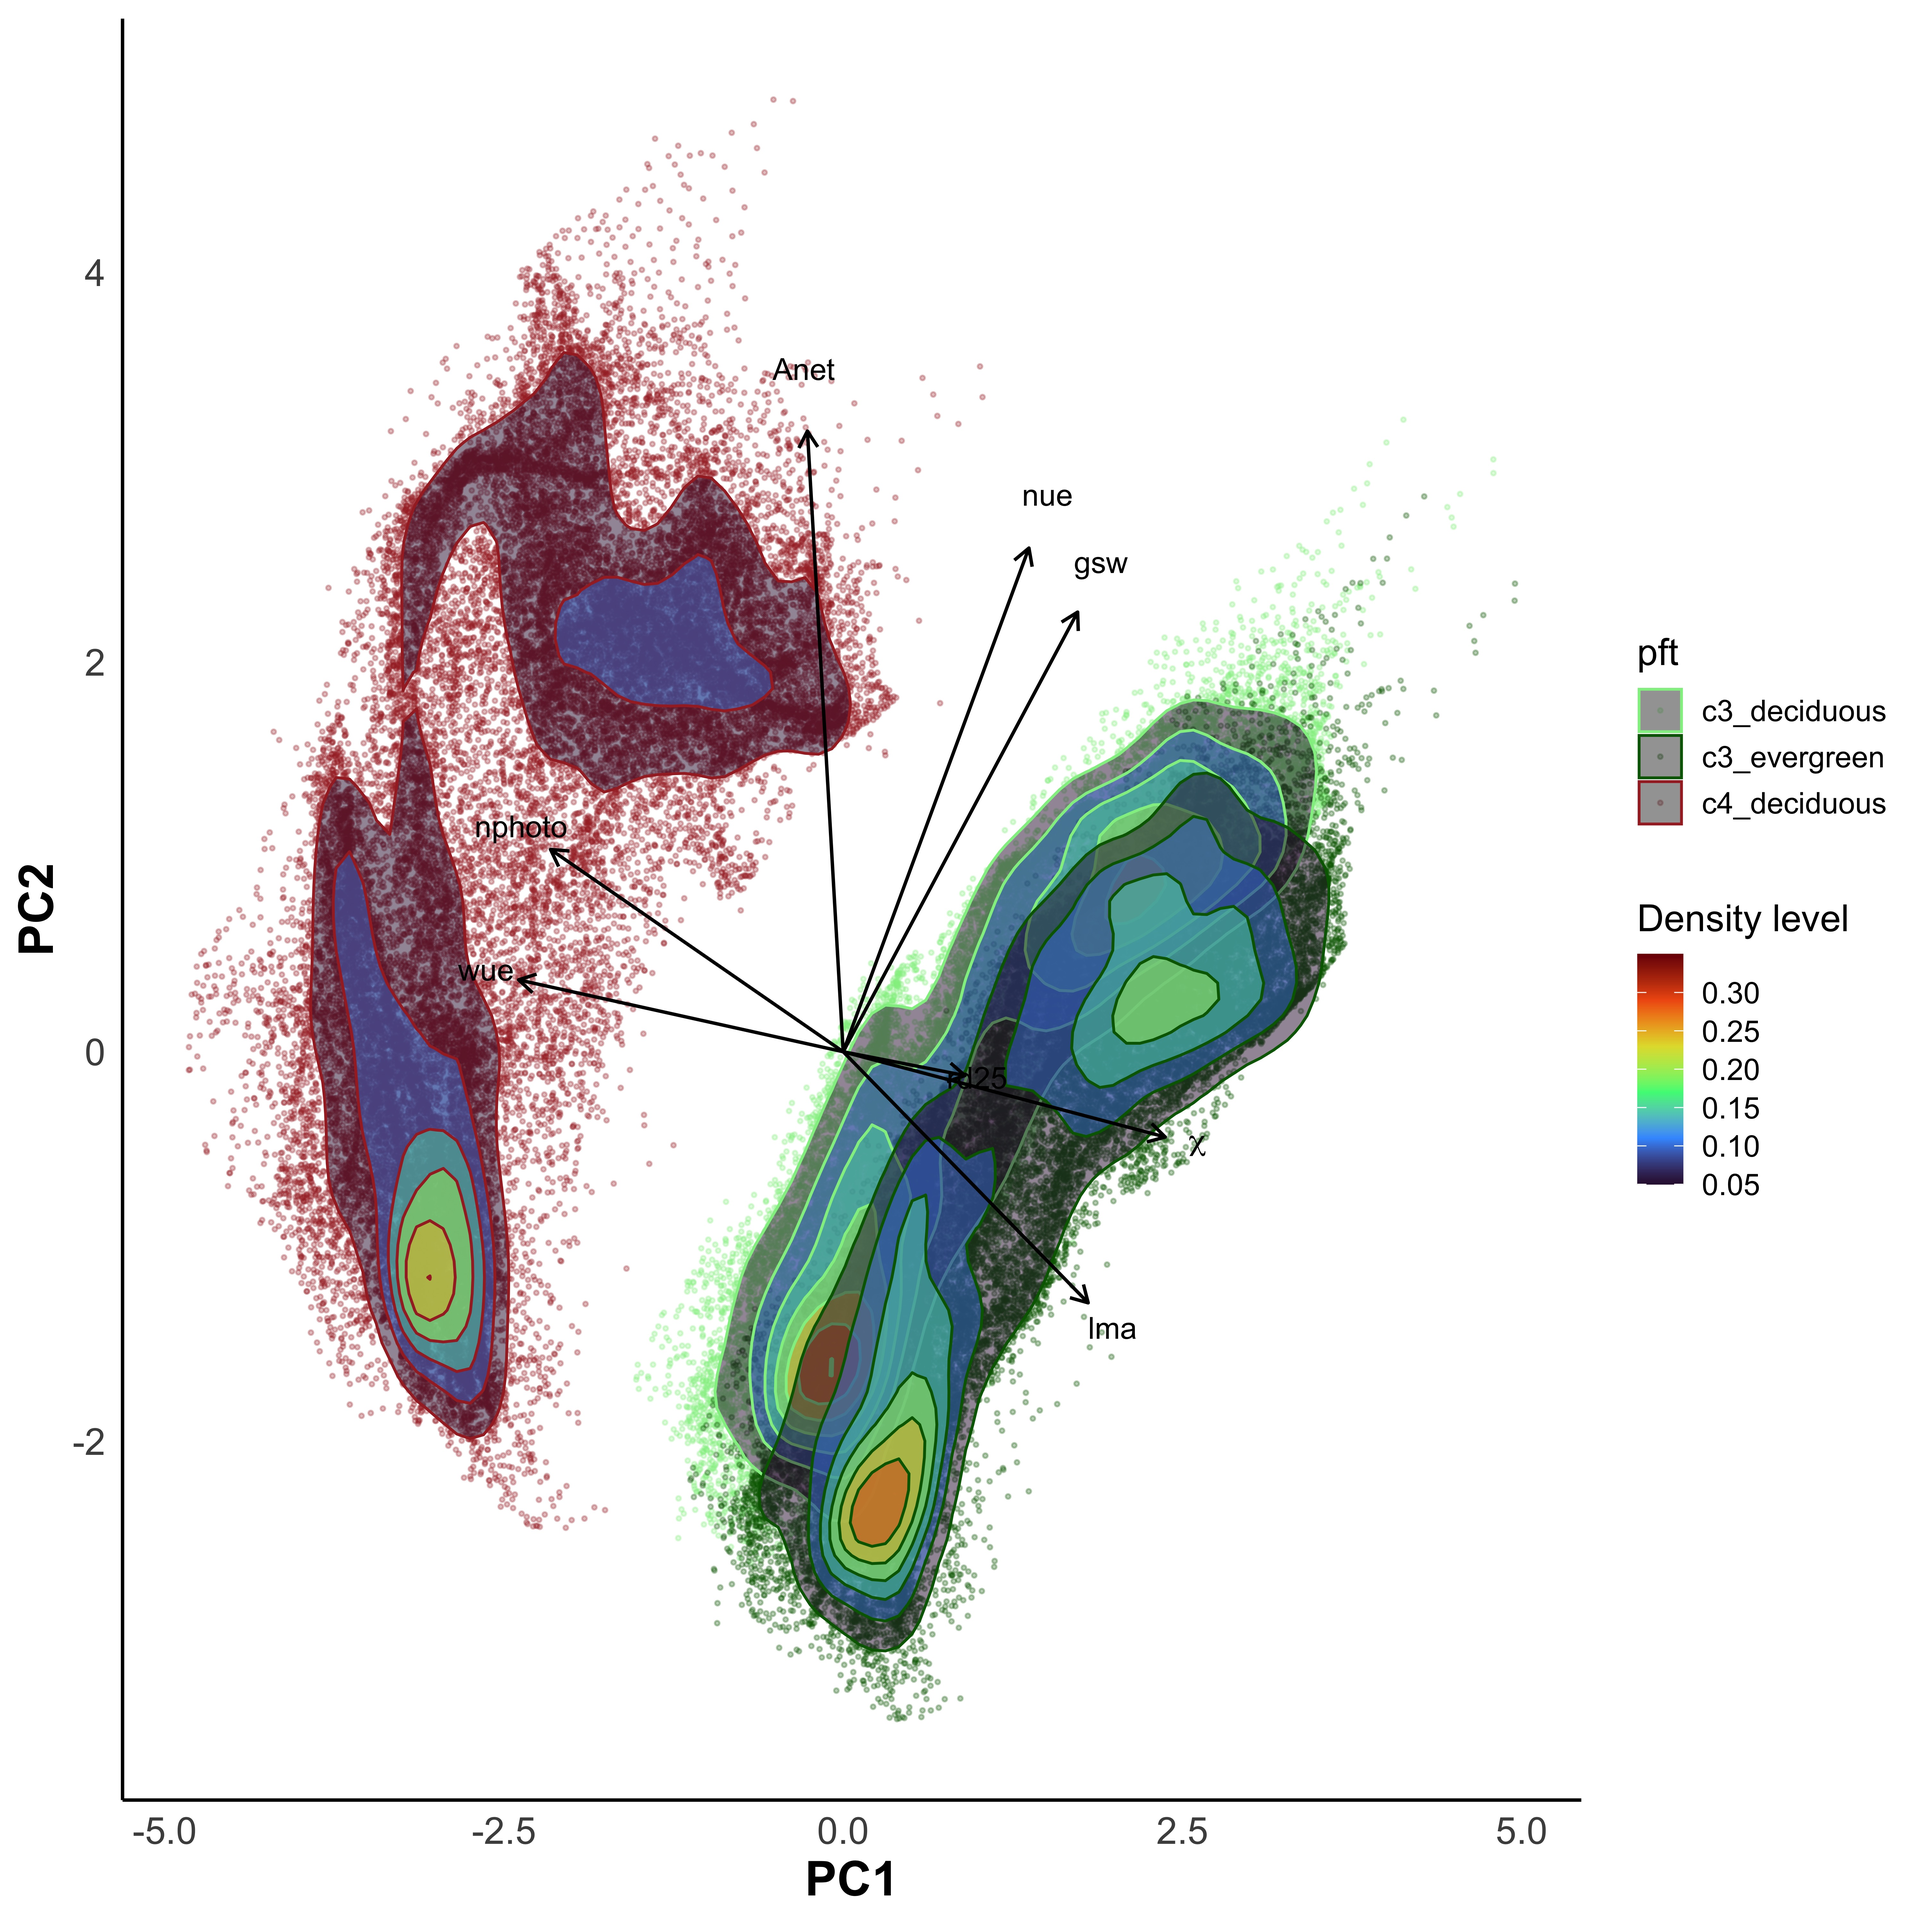
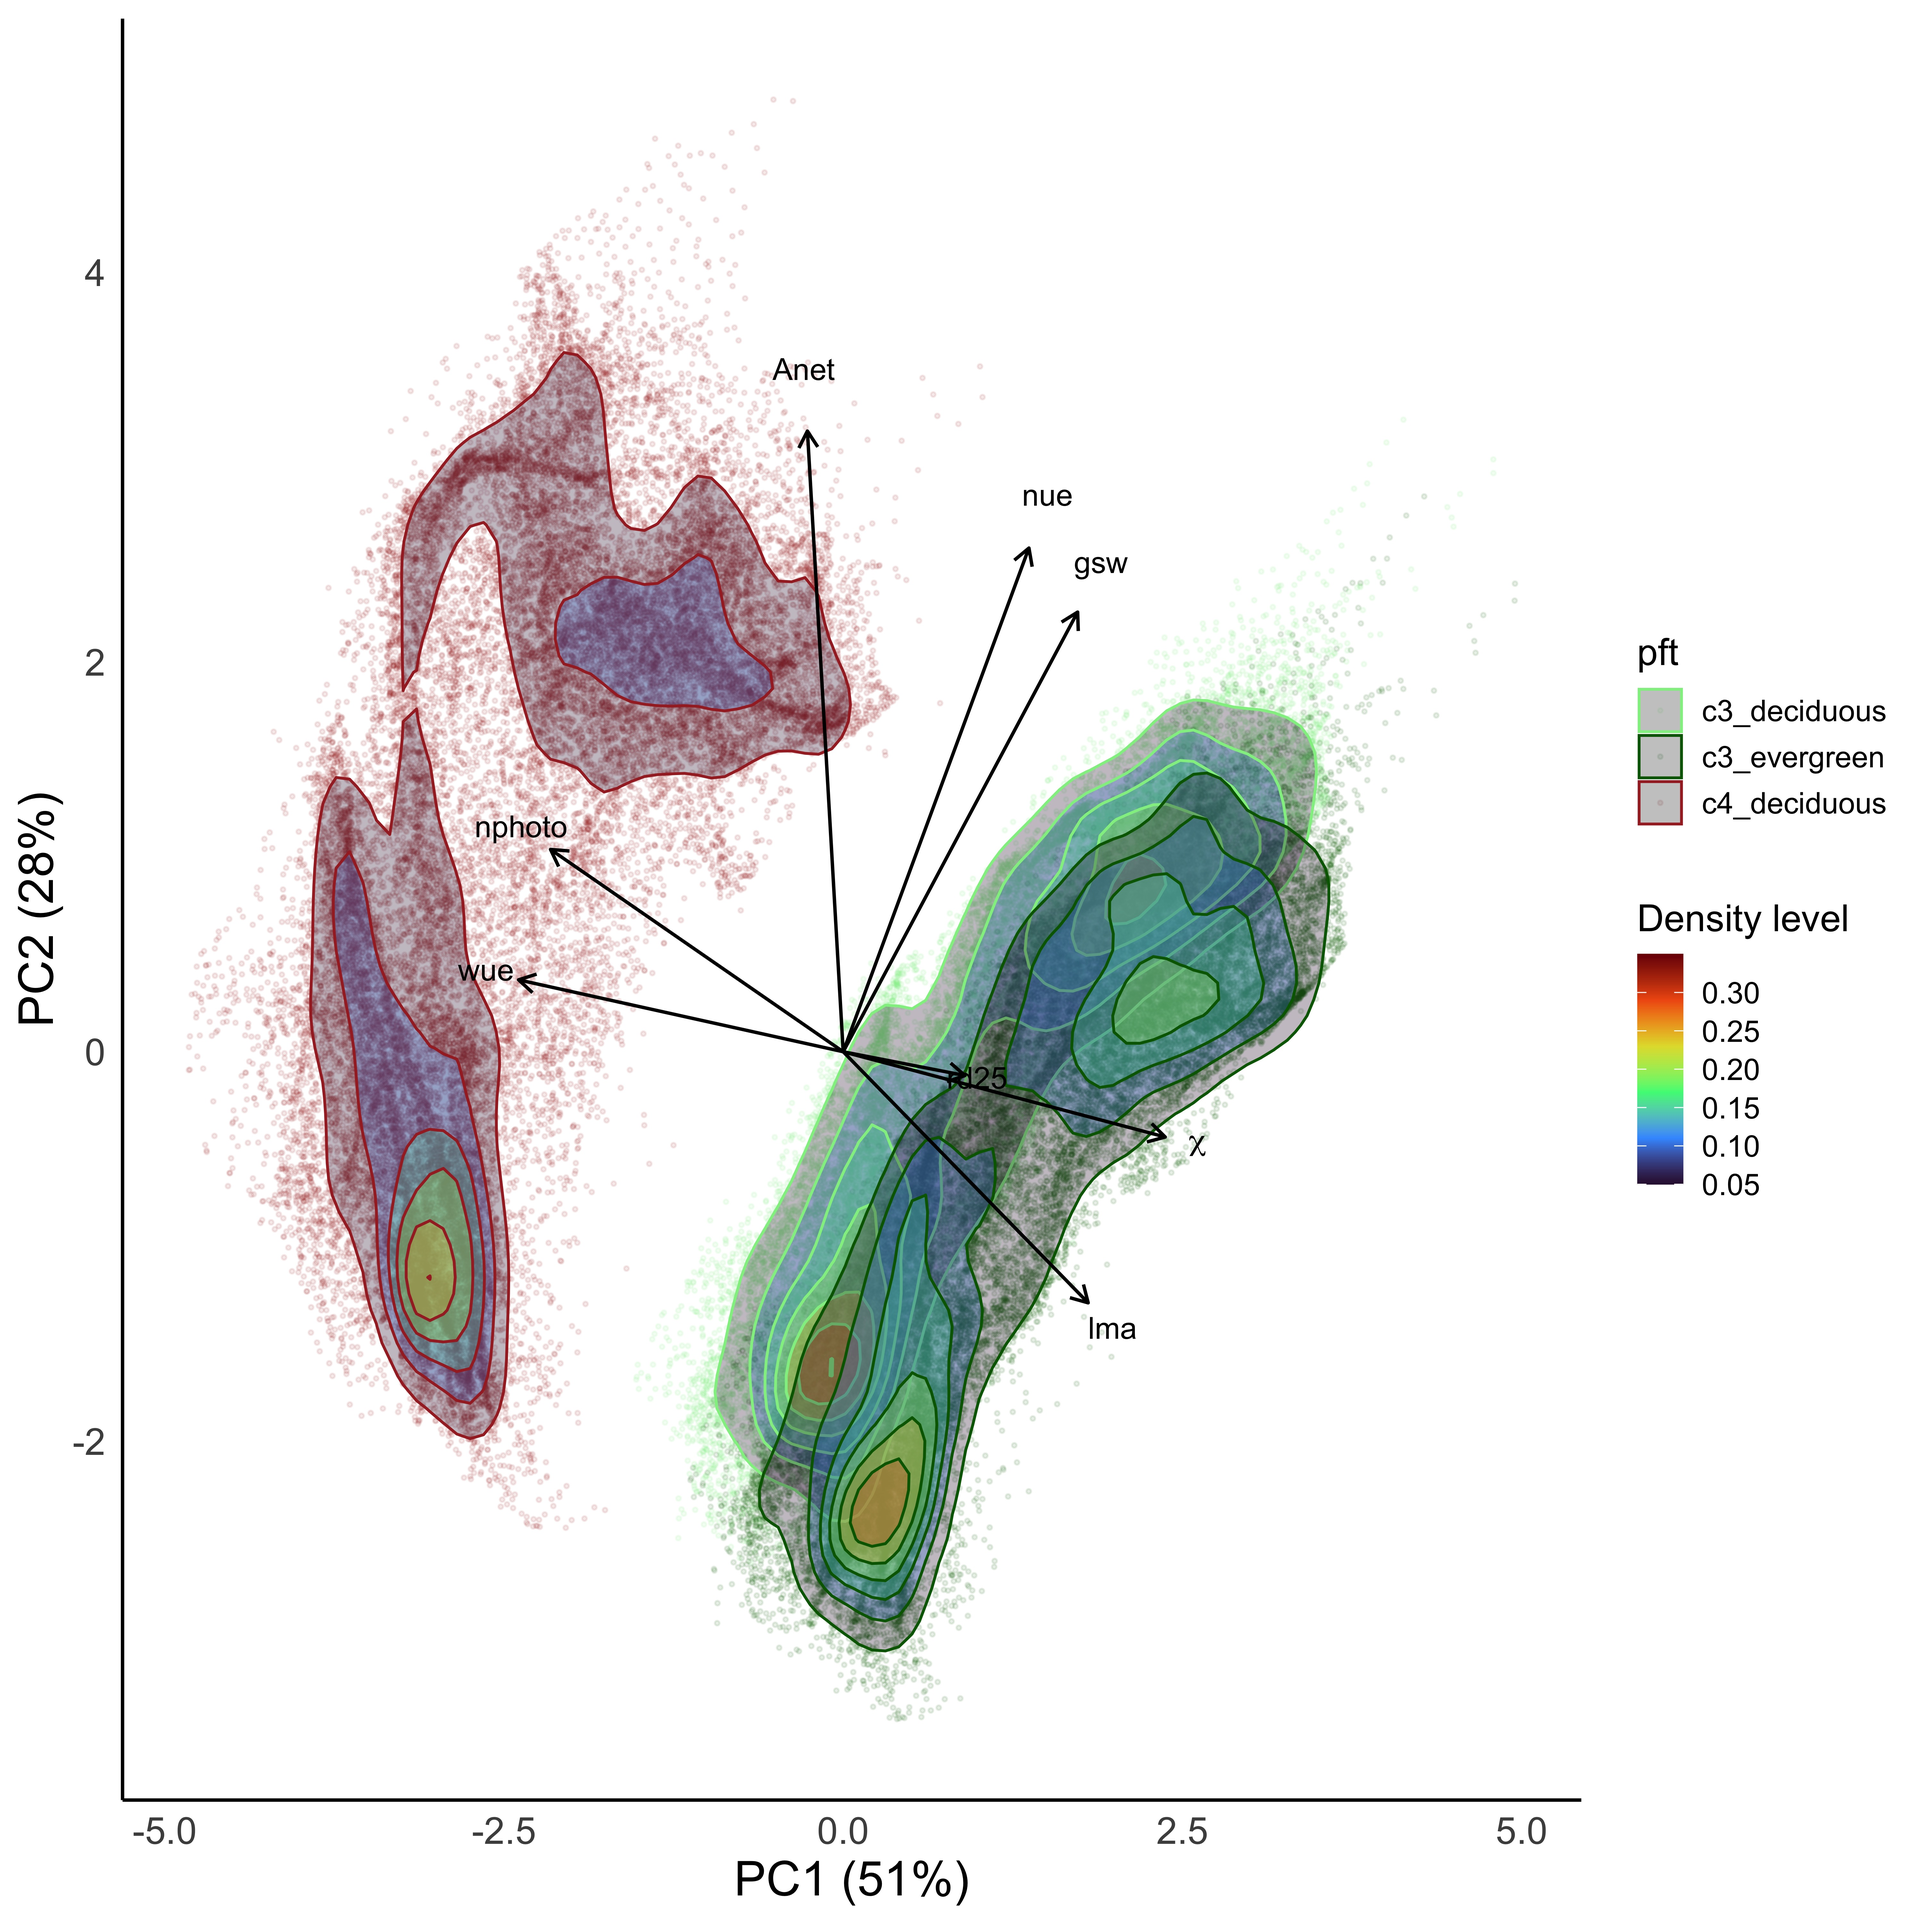
made plots for points 1 and 2

diff --git a/notes.md b/notes.md
@@ -61,4 +61,31 @@ interpretable PCA plots
 - to do: same simulations with added within site variability
 	- do this using mean and SD random draw for beta distributions from Cheaib
 		- for a select few sites: neon sites?
+
+## oct 23, 2025
+- main points revisited with status update
+	1. EEO can be used to predict global distributions of optimal photosynthetic strategies
+		- figure: global PCA plot with 3 PFTs for Anet, gsw, nphoto, chi, lma, nue, wue, rd25
+		- analysis: explain the predicted strategy/spatial variation
+		- stage: plots complete
+			- [PC1PC2 plot](results/plots/global_optimal_traits_all_pca_plot_PC1PC2.jpeg)
+			- [PC1PC3 plot](global_optimal_traits_all_pca_plot_PC1PC3.jpeg)
+	2. Traits separate between PFTs in some cases, but not others
+		- figure: trait histograms by PFT for Anet, gsw, nphoto, chi, lma, nue, wue, rd25
+		- analysis: confirmation of PFT strategies across environments
+		- stage: plots complete
+			- [global trait historgram plot](results/plots/global_optimal_traits_hist_all.jpeg)
+- to do: work on points 3 and 4 (start line 688)
+
+
+
+
+
+
+
+
+
+
+
+
 	
